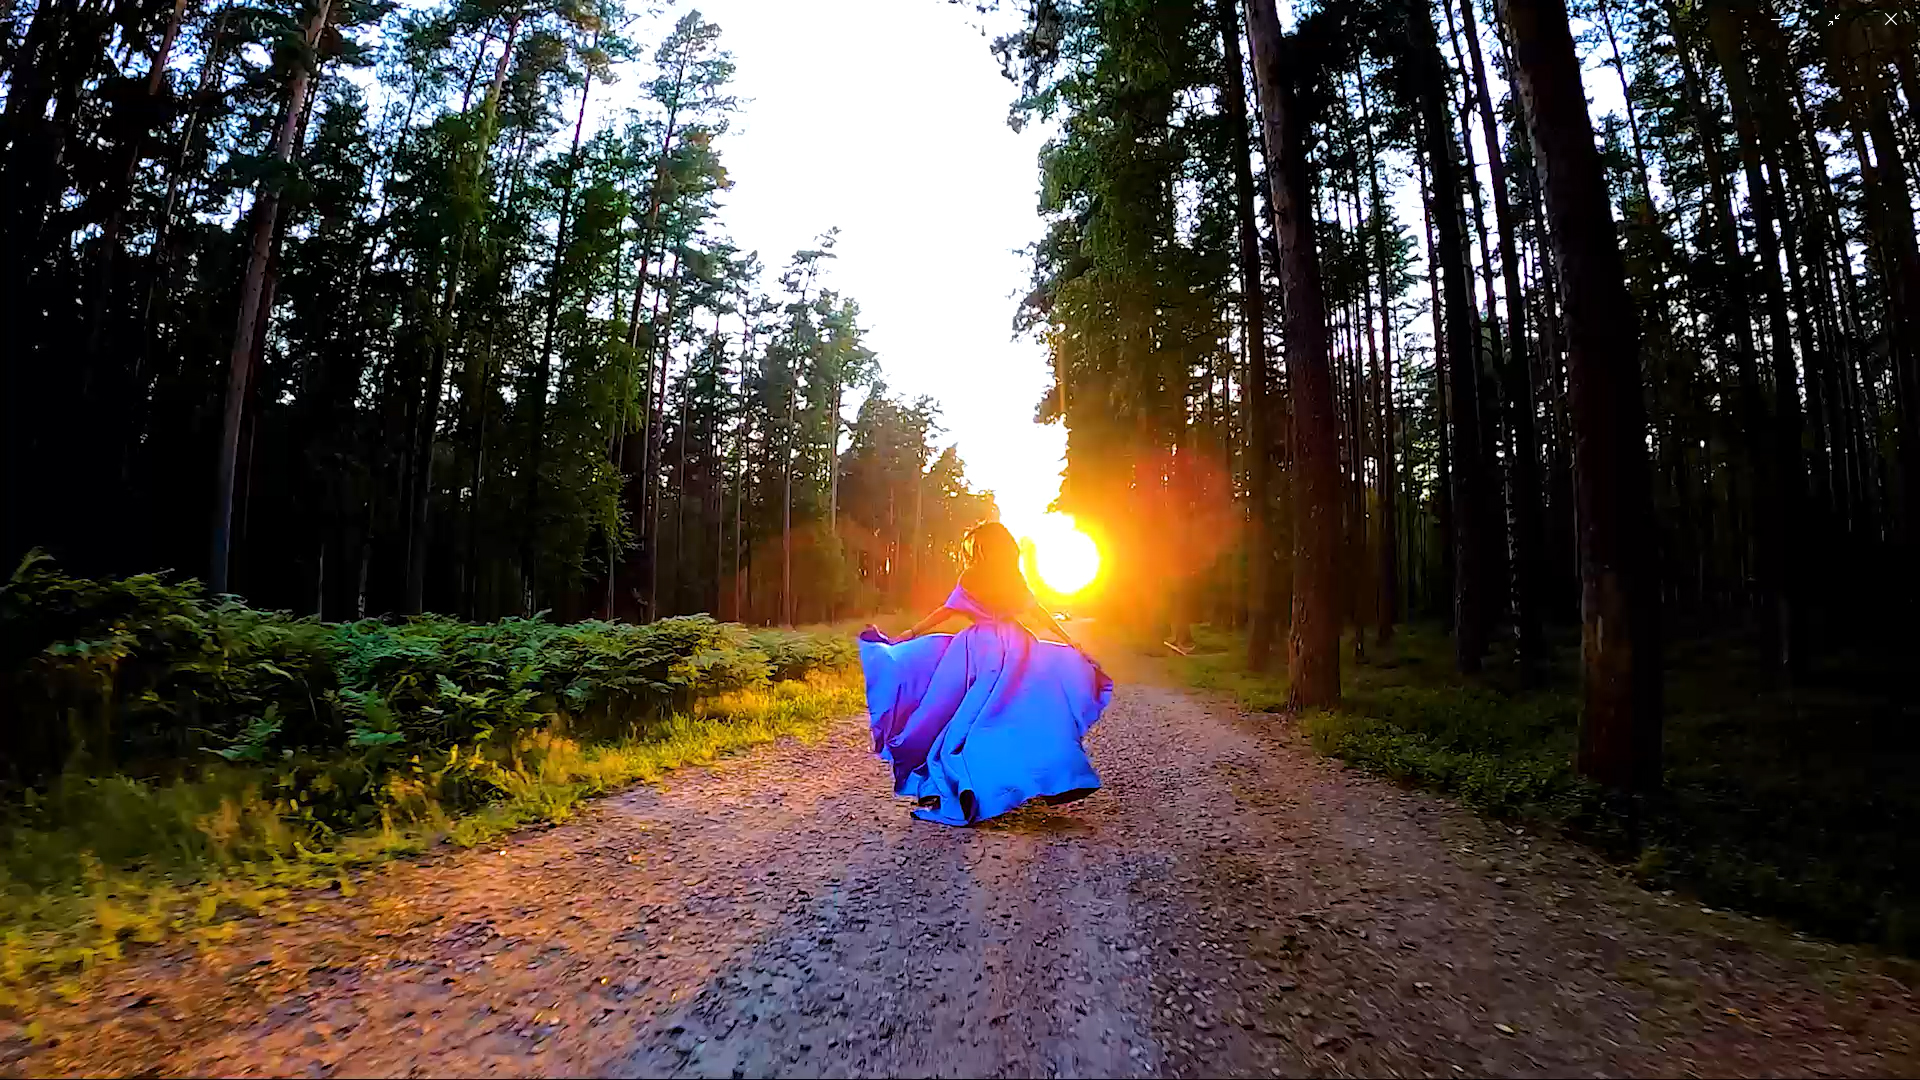
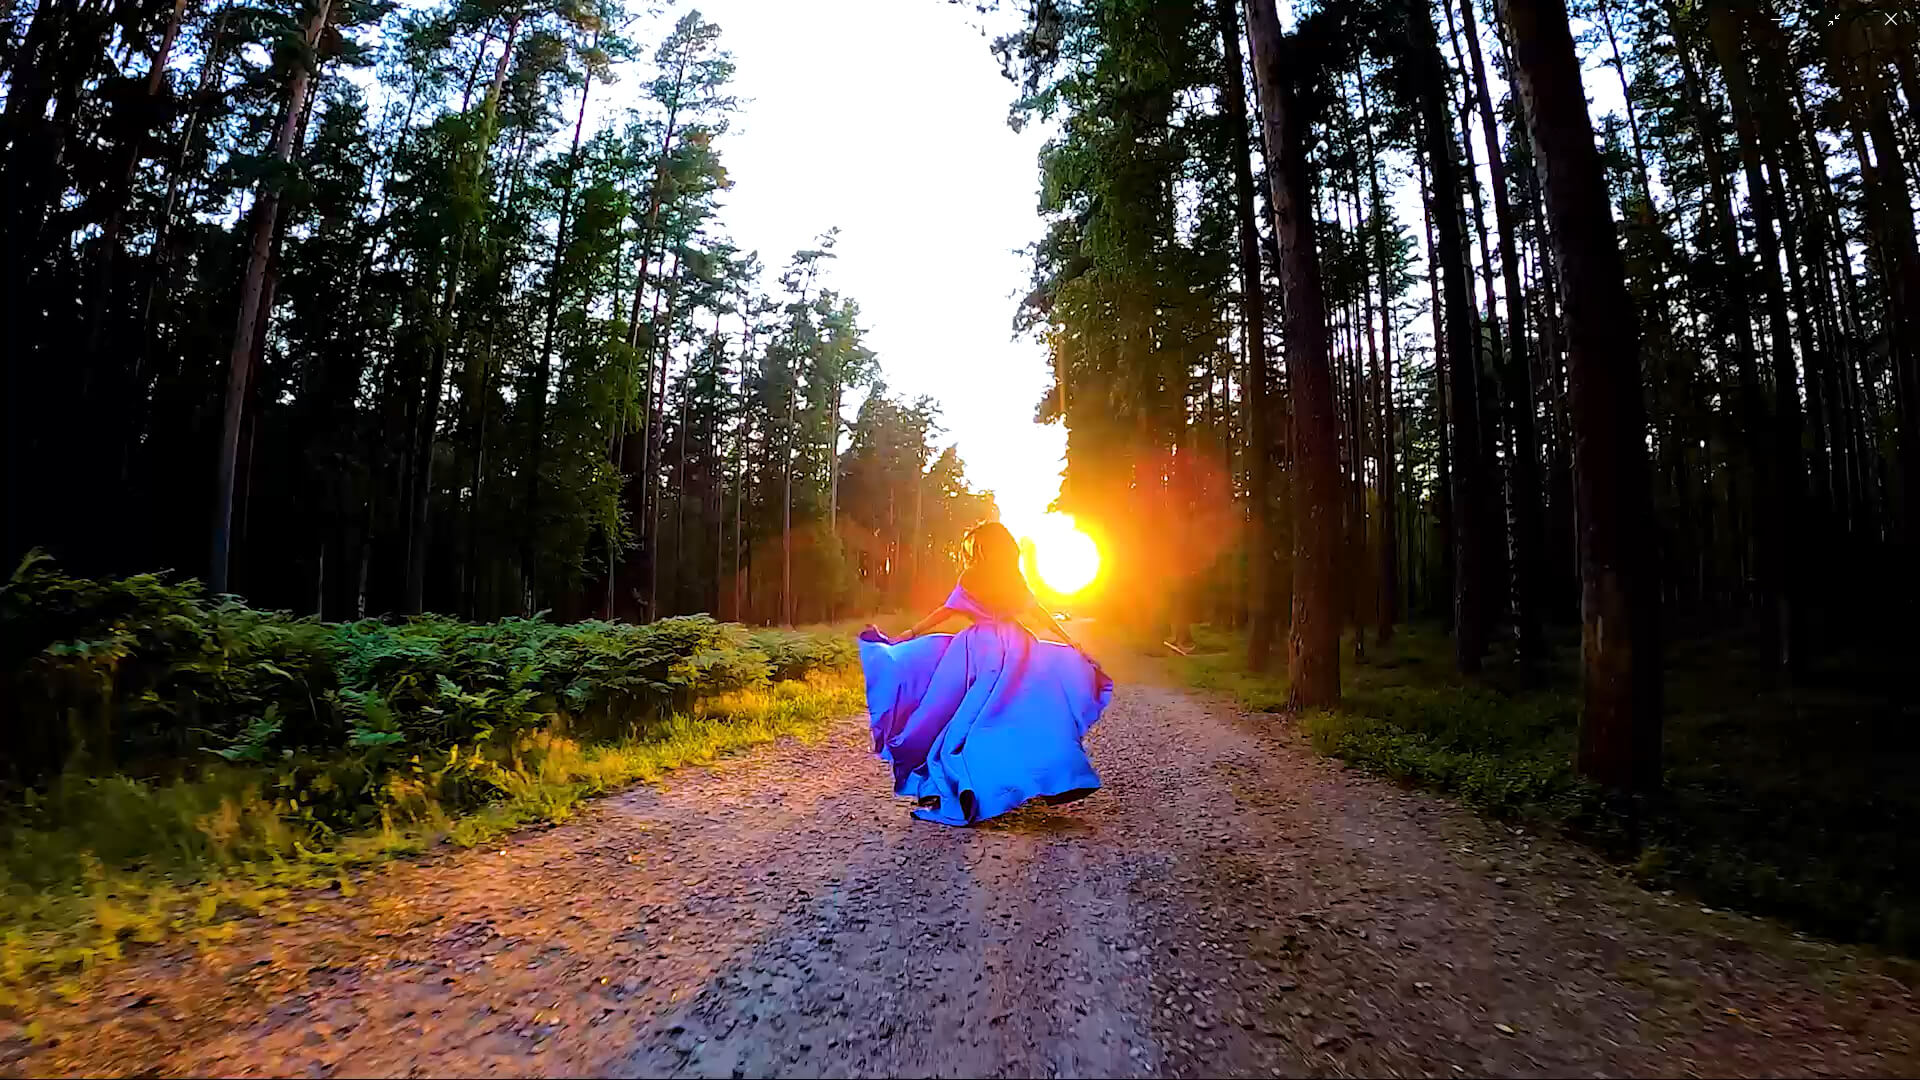
оптимизация изображений

diff --git a/src/components/Information/Information.js b/src/components/Information/Information.js
@@ -2,7 +2,7 @@ import React from "react";
 import "./Information.css";
 import tyema from "../../images/tyema.jpg";
 import cinewhoop from "../../images/cinewhoop.jpg";
-import freestyle from "../../images/dron2-1.jpg";
+import freestyle from "../../images/freestyle.jpg";
 import forPrice from "../../images/forPrice.jpg";
 
 function Information() {
@@ -20,20 +20,20 @@ function Information() {
             </div>
           </div>
         </div>
+        <div className="information__area information__area_topic_freestyle">
+          <img className="information__image" alt="фотография коптера freestyle" src={freestyle}></img>
+          <div className="information__container">
+            <div className="information__overlay">
+              <p className="information__text">Также в моем арсенале FPV freestyle 5 - “классический” коптер для съемок. Быстрый и маневренный. Используется для съемок на улице.</p>
+            </div>
+          </div>
+        </div>
         <div className="information__area information__area_topic_cinewhoop">
           <img className="information__image" alt="фотография коптера Cinewhoop" src={cinewhoop}></img>
           <div className="information__container">
             <div className="information__overlay">
               <p className="information__text">Я снимаю на Cinewhoop - коптер с защищенными пропеллерами, что позволяет летать близко к людям,
               а также внутри помещений. Создает более плавные и кинематографичные кадры.</p>
-            </div>
-          </div>
-        </div>
-        <div className="information__area information__area_topic_freestyle">
-          <img className="information__image" alt="фотография коптера freestyle" src={freestyle}></img>
-          <div className="information__container">
-            <div className="information__overlay">
-              <p className="information__text">Также в моем арсенале FPV freestyle 5 - “классический” коптер для съемок. Быстрый и маневренный. Используется для съемок на улице.</p>
             </div>
           </div>
         </div>

diff --git a/src/components/Header/Header.js b/src/components/Header/Header.js
@@ -1,4 +1,5 @@
 import React from "react";
+import { useMediaQuery } from 'usehooks-ts';
 import "./Header.css";
 import videoDesctop from "../../images/video-desctop.mp4";
 import videoMobile from "../../images/video-mobile.mp4";
@@ -6,32 +7,19 @@ import posterDesctop from "../../images/start-desctop.jpg";
 import posterMobile from "../../images/start-mobile.jpg";
 
 function Header(props) {
-  const sizeScreen = document.documentElement.clientWidth;
+  const resize = useMediaQuery('(min-width: 500px)');
   const {isArrowVisible} = props;
-
-  function screenSize () {
-    switch (true) {
-      case sizeScreen >= 500:
-        return videoDesctop;
-      default:
-        return videoMobile;
-    }
-  }
-
-  function screenSizePoster () {
-    switch (true) {
-      case sizeScreen >= 500:
-        return posterDesctop;
-      default:
-        return posterMobile;
-    }
-  }
 
   return (
     <header className="header">
-      <video autoPlay loop muted className="header__video" poster={screenSizePoster()}>
-          <source src={screenSize()} type="video/mp4"></source>
-      </video>
+      {
+        resize ? (
+        <video autoPlay loop muted className="header__video" poster={posterDesctop}>
+        <source src={videoDesctop} type="video/mp4"></source> </video>) : (
+          <video autoPlay loop muted className="header__video" poster={posterMobile}>
+          <source src={videoMobile} type="video/mp4"></source> </video>
+        )
+      }
       <div className="header__content">
         <h1 className="header__title">FPV аэросъёмка</h1>
         <p className="header__text">Живые и динамичные кадры, Вам точно понравится</p>

diff --git a/src/utils/const.js b/src/utils/const.js
@@ -16,7 +16,7 @@ export const initialCards = [
 
     {
         title: 'Автомобиль в поле',
-        text: 'Съёмка автомобиля',
+        text: 'Автомобиль',
         src: 'https://www.youtube.com/embed/ajDRVWIsNDg?modestbranding=1&color=white&iv_load_policy=3',
         place: Car,
         id: 2
@@ -32,7 +32,7 @@ export const initialCards = [
 
     {
         title: 'Стая птиц',
-        text: 'Перелет птиц',
+        text: 'Птицы',
         src: 'https://www.youtube.com/embed/3qnzT61j9uc?modestbranding=1&color=white&iv_load_policy=3',
         place: Birds,
         id: 4
@@ -48,7 +48,7 @@ export const initialCards = [
 
     {
         title: 'Аэролодка',
-        text: 'Съёмка на льду',
+        text: 'Аэролодка',
         src: 'https://www.youtube.com/embed/gbobUubVXBs?modestbranding=1&color=white&iv_load_policy=3',
         place: Boat,
         id: 6

diff --git a/src/components/Form/Form.js b/src/components/Form/Form.js
@@ -91,8 +91,8 @@ function Form(props) {
         </div>
         <div className="form__link">
           <p className="form__text">Напишите мне в:</p>
-          <a className="form__icon" href="http://t.me/abaksha" target="_blank" rel="noreferrer"><img className="form__icon" src={iconWA} alt="иконка WhatsApp"></img></a>
-          <a className="form__icon" href="https://wa.me/79215883019" target="_blank" rel="noreferrer"><img className="form__icon" src={iconTg} alt="иконка Telegram"></img></a>
+          <a className="form__icon" href="https://wa.me/79215883019" target="_blank" rel="noreferrer"><img className="form__icon" src={iconWA} alt="иконка WhatsApp"></img></a>
+          <a className="form__icon" href="http://t.me/abaksha" target="_blank" rel="noreferrer"><img className="form__icon" src={iconTg} alt="иконка Telegram"></img></a>
         </div>
       </div>
   );

diff --git a/src/components/Portfolio/Portfolio.jsx b/src/components/Portfolio/Portfolio.jsx
@@ -7,7 +7,7 @@ function Portfolio(props) {
 
   return (
     <section className="portfolio" id="portfolio">
-      <h2 className="portfolio__title">Работы</h2>
+      <h2 className="portfolio__title">Примеры</h2>
       <div className="portfolio__work">
         {initialCards.map(card => (
           <button className="portfolio__video"
@@ -15,7 +15,7 @@ function Portfolio(props) {
           backgroundSize: "cover",
           backgroundPosition: "center",
           backgroundRepeat: "no-repeat"}}
-          onClick={event => onOpenVideo(card)}
+          onClick={() => onOpenVideo(card)}
           key={card.id}>
             <p className="portfolio-video__title">{card.text}</p>
           </button>

diff --git a/src/components/Information/Information.css b/src/components/Information/Information.css
@@ -41,9 +41,9 @@
   grid-template-rows: repeat(5, 1fr);
   grid-template-areas:
   ". tyema"
-  "cinewhoop tyema"
-  "cinewhoop freestyle"
-  "price freestyle"
+  "freestyle tyema"
+  "freestyle cinewhoop"
+  "price cinewhoop"
   "price .";
 }
 
@@ -77,7 +77,7 @@
   object-fit: cover;
   display: flex;
   align-items: center;
-  filter: brightness(70%);
+  filter: brightness(80%);
   border-radius: 60px;
 }
 
@@ -106,7 +106,7 @@
   font-family: "Manrope", "Arial", sans-serif;
   font-style: normal;
   font-weight: 200;
-  font-size: 10px;
+  font-size: 14px;
   color: #c4c4c4;
   letter-spacing: 0.15em;
   line-height: 20px;

diff --git a/public/index.html b/public/index.html
@@ -1,12 +1,12 @@
 <!DOCTYPE html>
-<html lang="en">
+<html lang="ru">
   <head>
     <meta charset="utf-8" />
-    <link rel="icon" href="./logo.svg" />
+    <link rel="icon" href="./icon.png" />
     <meta name="viewport" content="width=device-width, initial-scale=1" />
     <meta name="theme-color" content="#000000" />
     <meta name=keywords
-          content="Аэросъемка">
+          content="Аэросъёмка">
     <title>Аэросъемка</title>
     <script type="text/javascript" src="https://ajax.googleapis.com/ajax/libs/jquery/1.10.1/jquery.min.js"></script>
     <script type="text/javascript">

diff --git a/src/components/Popup/Popup.js b/src/components/Popup/Popup.js
@@ -6,7 +6,7 @@ function Popup(props) {
   const {isOpen, onClosePopup} = props;
 
   return (
-    <section className={`popup popup_${isOpen && 'open'}`} onClick={e => (e.currentTarget === e.target) && onClosePopup()}>
+    <section className={`popup popup_${isOpen && 'open'}`} tabIndex="0" onKeyDown={e => (e.key === "Escape") && onClosePopup()} onClick={e => (e.currentTarget === e.target) && onClosePopup()}>
       <Form closePopup={onClosePopup} isButtonCloseVisible={true} className="popup__form"></Form>
     </section>
   );

diff --git a/src/components/Portfolio/Portfolio.css b/src/components/Portfolio/Portfolio.css
@@ -28,7 +28,7 @@
   background-color: #4845e899;
   border-radius: 60px;
   height: 100px;
-  width: 500px;
+  width: 600px;
   position: absolute;
   left: -200px;
 }
@@ -63,6 +63,7 @@
 }
 
 .portfolio-video__title {
+  /* margin-top: 100px; */
   font-family: "Manrope", "Arial", sans-serif;
   font-style: normal;
   font-weight: 200;
